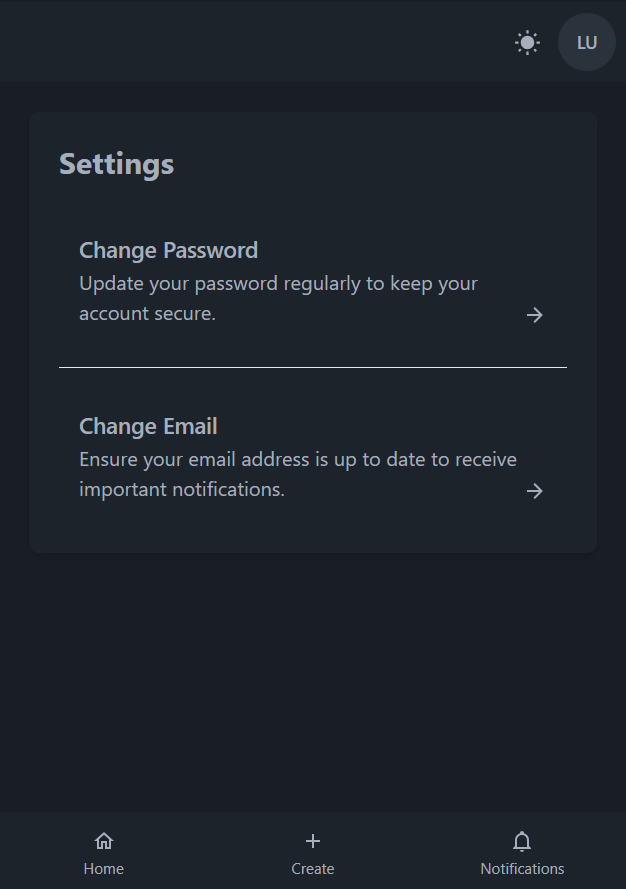
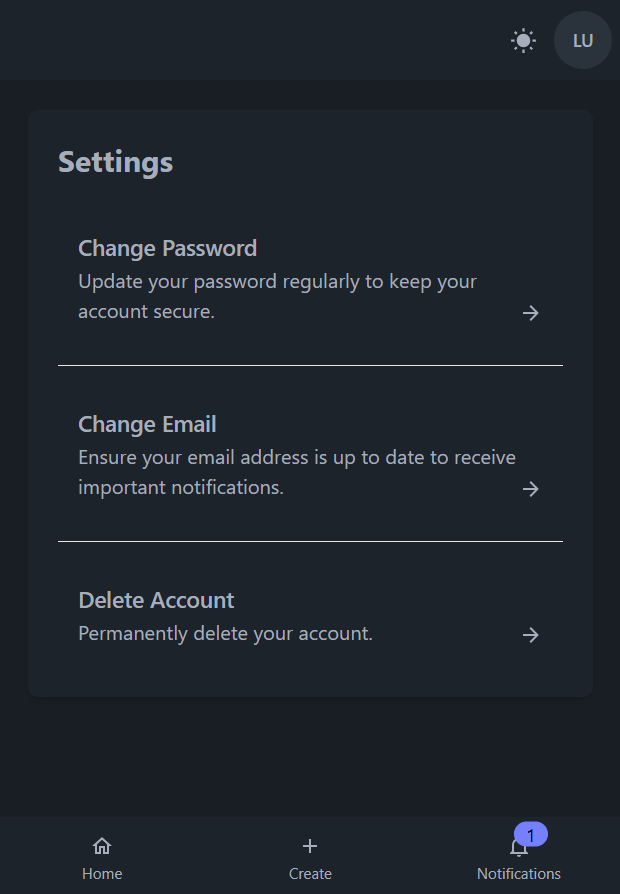
Add "Delete Account" option in account settings

diff --git a/src/routes/(app)/settings/delete-account/+page.svelte b/src/routes/(app)/settings/delete-account/+page.svelte
@@ -1,0 +1,92 @@
+<script lang="ts">
+	import MdiArrowLeft from '~icons/mdi/arrow-left';
+
+	import { getPocketBaseInstance } from '$lib/states/pocketbase.svelte';
+	import Alert from '$lib/components/Alert.svelte';
+	import Modal from '$lib/components/Modal.svelte';
+	import { sleep } from '$lib';
+
+	const { pb } = getPocketBaseInstance();
+
+	let alertType = $state('');
+	let alertMessage = $state('');
+	let email = $state('');
+	let dialogRef: HTMLDialogElement | undefined = $state();
+
+	const handleConfirmDeleteAccountClick = async () => {
+		if (pb.authStore.record) {
+			if (email !== pb.authStore.record.email) {
+				alertType = 'error';
+				alertMessage = 'Please confirm your email address and try again';
+				dialogRef?.close?.();
+				return;
+			}
+
+			alertType = 'success';
+			alertMessage = `So long, ${pb.authStore.record.username}!`;
+			dialogRef?.close?.();
+
+			await sleep(2500);
+
+			try {
+				await pb.collection('users').delete(pb.authStore.record.id);
+			} catch (e) {
+				alertType = 'error';
+				alertMessage = 'Something went wrong while deleting your account.';
+			}
+		}
+	};
+</script>
+
+{#snippet modalActions()}
+	<button class="btn" onclick={() => dialogRef?.close?.()}>Cancel</button>
+	<button class="btn btn-error" onclick={handleConfirmDeleteAccountClick}>Confirm</button>
+{/snippet}
+
+<Modal
+	bind:dialogRef
+	id="delete-account-modal"
+	title="Delete Account"
+	description="Are you sure you want to delete your account? This cannot be undone."
+	dismissable={true}
+	actionSnippet={modalActions}
+></Modal>
+
+<div class="flex flex-grow items-center justify-center">
+	<div class="container mx-auto p-4">
+		<div
+			class="card mx-auto max-w-md bg-base-100
+        p-6 shadow-xl lg:rounded-lg"
+		>
+			<a href="/settings" class="btn btn-circle btn-ghost text-left text-xl"
+				><MdiArrowLeft></MdiArrowLeft></a
+			>
+			<h2 class="mb-4 text-center text-2xl font-bold">Delete Account</h2>
+			<p class="mb-4 text-center">
+				We're sad to see you go - but if you must, confirm your email address and click the button
+				below to proceed.
+			</p>
+			{#if alertType && alertMessage}
+				<div class="mb-4">
+					<Alert type={alertType} message={alertMessage}></Alert>
+				</div>
+			{/if}
+			<div class="form-control relative mb-4">
+				<input
+					type="email"
+					id="email"
+					class="input input-bordered"
+					placeholder="Current Email Address"
+					bind:value={email}
+				/>
+			</div>
+			<div class="text-center">
+				<button
+					class="btn btn-primary min-w-full"
+					onclick={() => dialogRef?.showModal?.()}
+					disabled={email !== pb?.authStore?.record?.email}>Delete My Account Forever</button
+				>
+			</div>
+		</div>
+	</div>
+</div>

diff --git a/src/lib/components/Modal.svelte b/src/lib/components/Modal.svelte
@@ -1,0 +1,59 @@
+<script lang="ts">
+	import type { Snippet } from 'svelte';
+
+	type Props = {
+		dialogRef: HTMLDialogElement | undefined;
+		id: string;
+		title: string;
+		description?: string;
+		orientation?: string;
+		dismissable?: boolean;
+		bodySnippet?: Snippet;
+		actionSnippet?: Snippet;
+		onClose?: () => void;
+	};
+	let {
+		dialogRef = $bindable(),
+		id,
+		title,
+		description,
+		orientation,
+		dismissable,
+		bodySnippet,
+		actionSnippet,
+		onClose = () => {}
+	}: Props = $props();
+</script>
+
+<dialog
+	{id}
+	class="modal"
+	class:modal-top={orientation === 'top'}
+	class:modal-bottom={orientation === 'bottom'}
+	bind:this={dialogRef}
+	onclose={onClose}
+>
+	<div class="modal-box">
+		{#if dismissable}
+			<form method="dialog">
+				<button class="btn btn-circle btn-ghost btn-sm absolute right-2 top-2">✕</button>
+			</form>
+		{/if}
+
+		<h3 class="text-lg font-bold">{title}</h3>
+		<p class="py-4">{description}</p>
+		{#if bodySnippet}
+			{@render bodySnippet()}
+		{/if}
+		<div class="modal-action">
+			{#if actionSnippet}
+				{@render actionSnippet()}
+			{/if}
+		</div>
+	</div>
+	{#if dismissable}
+		<form method="dialog" class="modal-backdrop">
+			<button>close</button>
+		</form>
+	{/if}
+</dialog>

diff --git a/src/lib/constants.ts b/src/lib/constants.ts
@@ -1,5 +1,6 @@
 import MdiEmailOutline from '~icons/mdi/email-outline';
 import MdiKeyOutline from '~icons/mdi/key-outline';
+import MdiAccountRemove from '~icons/mdi/account-remove';
 
 export const pageTitles: Record<string, string> = {
 	'/login': 'Log In',
@@ -7,6 +8,7 @@ export const pageTitles: Record<string, string> = {
 	'/settings': 'Settings',
 	'/settings/change-email': 'Change Email',
 	'/settings/change-password': 'Change Password',
+	'/settings/delete-account': 'Delete Account',
 	'/create': 'Create',
 	'/notifications': 'Notifications'
 };
@@ -23,5 +25,11 @@ export const accountSettings = [
 		description: 'Ensure your email address is up to date to receive important notifications.',
 		pathName: '/settings/change-email',
 		icon: MdiEmailOutline
+	},
+	{
+		name: 'Delete Account',
+		description: 'Permanently delete your account.',
+		pathName: '/settings/delete-account',
+		icon: MdiAccountRemove
 	}
 ];

diff --git a/src/lib/index.ts b/src/lib/index.ts
@@ -1,1 +1,4 @@
 // place files you want to import through the `$lib` alias in this folder.
+export const sleep = (ms: number) => {
+	return new Promise((resolve) => setTimeout(resolve, ms));
+};

diff --git a/README.md b/README.md
@@ -14,6 +14,7 @@ Mobile-first, minimalistic starter template for web applications built with Svel
 - User Settings:
   - Change email
   - Change password
+  - Delete account
 - Theme Switcher: light and dark modes supported
 - Sample Pages:
   - Notifications page
@@ -25,6 +26,7 @@ Mobile-first, minimalistic starter template for web applications built with Svel
 <img src="static/screenshots/home.png" alt="Home" width="30%"/><br>
 <img src="static/screenshots/notifications.png" alt="Notifications" width="30%"/><br>
 <img src="static/screenshots/settings.png" alt="Settings" width="30%"/>
+<img src="static/screenshots/delete-account.png" alt="Settings" width="30%"/>
 
 ## Tech Stack
 
